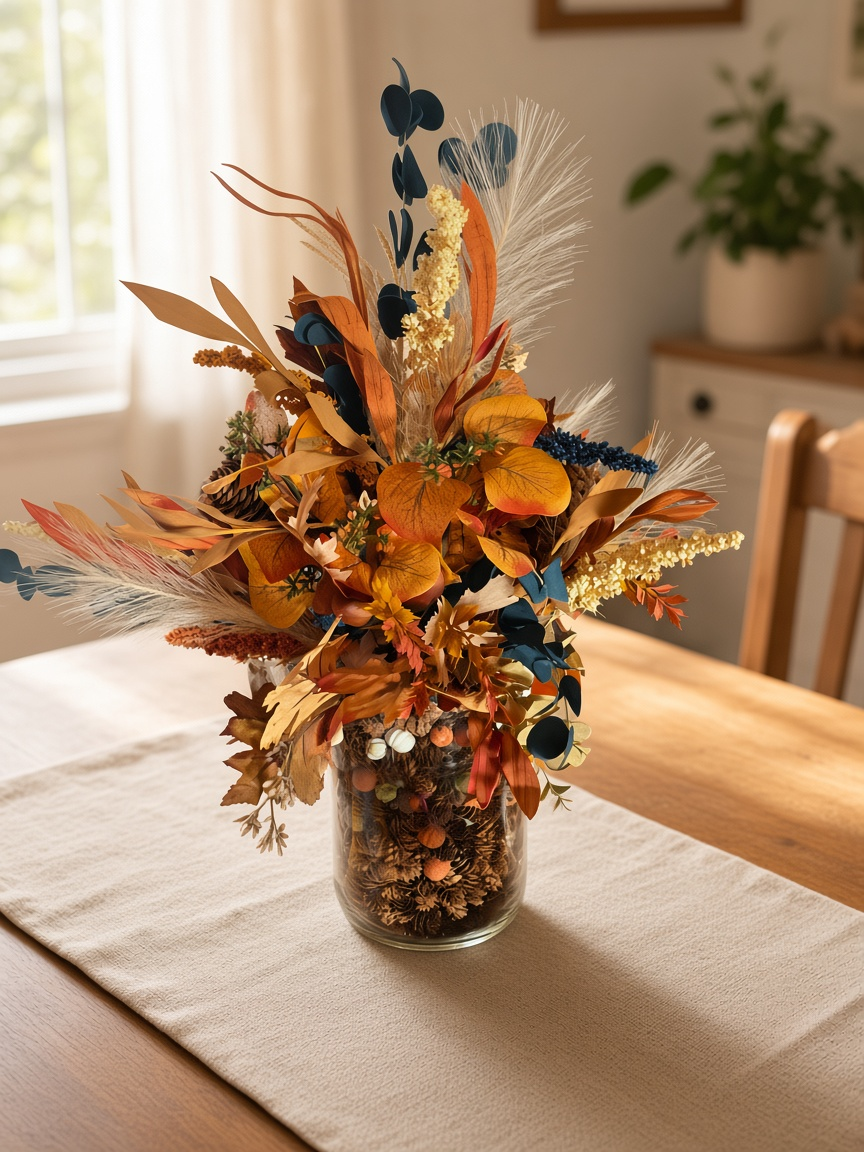
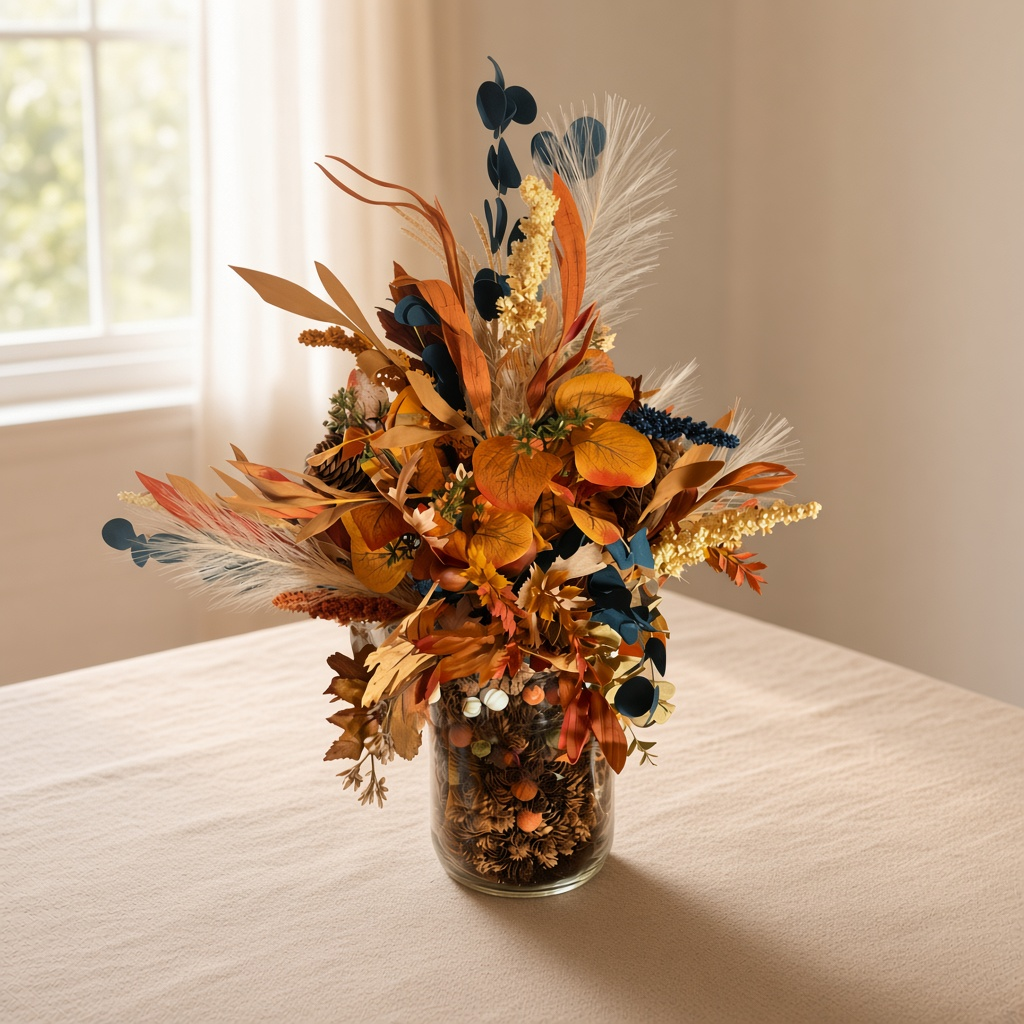
Show every shop piece in full, without cropping.
Switch product cards to contain the photo, and restage the pumpkin towers and bouquet as squares so the whole piece stays in frame.

diff --git a/css/styles.css b/css/styles.css
@@ -581,10 +581,11 @@ a {
 .ready-grid .product img,
 .season-products .product img {
   aspect-ratio: 1 / 1;
-  object-fit: cover;
+  object-fit: contain;
   object-position: center;
   background: #f3eee6;
   border-radius: 10px;
+  padding: 0.7rem;
 }
 
 .product-grid {
@@ -609,7 +610,9 @@ a {
 .product img {
   width: 100%;
   aspect-ratio: 4 / 3;
-  object-fit: cover;
+  object-fit: contain;
+  object-position: center;
+  background: #f3eee6;
   border-radius: 2px;
 }
 
